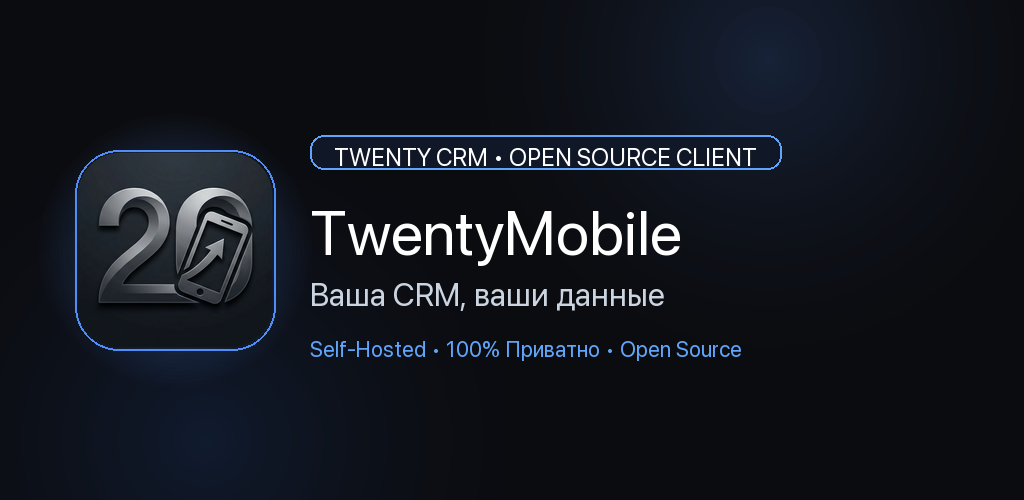
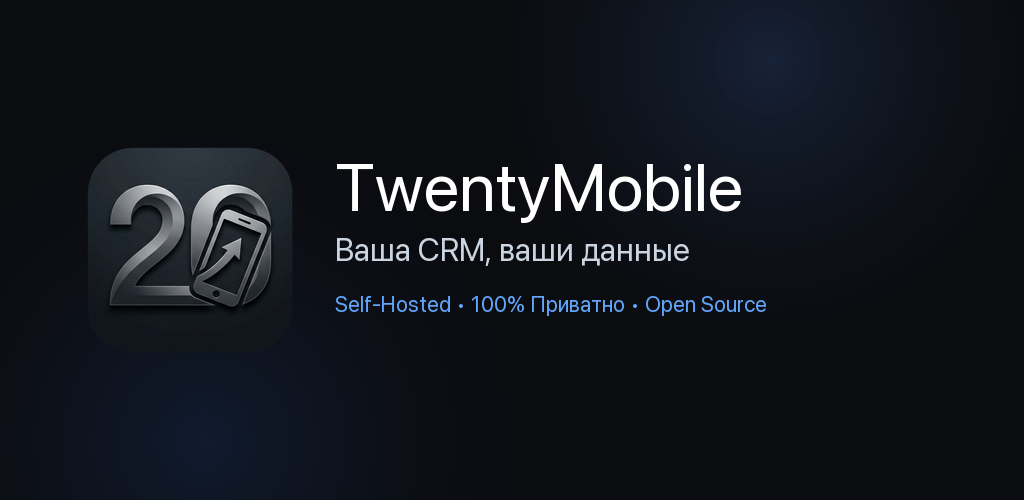
style(store): featureGraphic minimale (rimossi contorno blu e badge, testi allineati in alto)

diff --git a/scripts/store/generate_mockups.py b/scripts/store/generate_mockups.py
@@ -699,11 +699,11 @@ def render_dual_mockup(cfg_profile, slide_idx, text_data, raw_screen_left, raw_s
 
 
 def generate_feature_graphic(loc_dir, copy_item, icon_src):
-    """Feature Graphic Google Play 1024x500 in puro stile Twenty CRM."""
+    """Feature Graphic Google Play 1024x500 pulita e minimale in stile Twenty CRM."""
     w, h = 1024, 500
     fg = create_twenty_gradient(w, h)
     
-    # Pulizia dell'icona: elimina bordi bianchi esterni tramite maschera pulita
+    # Pulizia perfetta dell'icona: elimina bordi bianchi esterni tramite maschera pulita
     icon_master = Image.open(icon_src).convert("RGBA")
     mask = Image.new("L", icon_master.size, 0)
     m_draw = ImageDraw.Draw(mask)
@@ -716,66 +716,29 @@ def generate_feature_graphic(loc_dir, copy_item, icon_src):
     icon_clean = Image.new("RGBA", icon_master.size, (0, 0, 0, 0))
     icon_clean.paste(icon_master, (0, 0), mask)
     
-    icon_sz = 200
+    icon_sz = 210
     icon_img = icon_clean.resize((icon_sz, icon_sz), Image.Resampling.LANCZOS)
-    icon_pos = (75, 150)
+    icon_pos = (85, 145)
     
-    # Bagliore luminoso Twenty CRM centrato dietro all'icona (nessun contorno nero)
-    glow = Image.new("RGBA", (w, h), (0, 0, 0, 0))
-    g_draw = ImageDraw.Draw(glow)
-    cx, cy = icon_pos[0] + icon_sz // 2, icon_pos[1] + icon_sz // 2
-    for r in range(140, 80, -4):
-        alpha = int(45 * ((140 - r) / 60.0))
-        g_draw.ellipse([cx - r, cy - r, cx + r, cy + r], fill=(79, 142, 247, alpha))
-        
     fg_rgba = fg.convert("RGBA")
-    fg_rgba = Image.alpha_composite(fg_rgba, glow)
-    
-    # Incolla l'icona con un bordo satinato elegante
+    # Incolla l'icona pura e pulita: nessun contorno blu, nessuna ombra nera/alone
     fg_rgba.paste(icon_img, icon_pos, icon_img)
     draw = ImageDraw.Draw(fg_rgba)
-    icon_rad = int(icon_sz * 0.22)
-    draw.rounded_rectangle(
-        [icon_pos[0], icon_pos[1], icon_pos[0] + icon_sz, icon_pos[1] + icon_sz],
-        radius=icon_rad,
-        outline=(79, 142, 247, 190),
-        width=2
-    )
     
-    # 1. Badge "TWENTY CRM • OPEN SOURCE CLIENT"
-    # Grande (24px), nitido, ad alto contrasto su pillola navy satinata
-    b_font = get_font(24, bold=True)
-    badge_text = "TWENTY CRM • OPEN SOURCE CLIENT"
-    b_bbox = draw.textbbox((0, 0), badge_text, font=b_font)
-    b_w = b_bbox[2] - b_bbox[0]
-    b_h = b_bbox[3] - b_bbox[1]
+    # Blocco testi centrato più in alto, allineato con la sommità del logo
+    tx = 335
     
-    bx = 310
-    by = 135
-    b_pad_h = 24
-    b_pad_v = 8
-    badge_rect = [bx, by, bx + b_w + b_pad_h * 2, by + b_h + b_pad_v * 2]
+    # 1. Titolo "TwentyMobile" (grande, bianco brillante, posizionato più in alto)
+    t_font = get_font(68, bold=True)
+    draw.text((tx, 145), copy_item["fg_title"], font=t_font, fill=(255, 255, 255))
     
-    draw.rounded_rectangle(
-        badge_rect,
-        radius=14,
-        fill=(16, 24, 40, 245),
-        outline=(96, 165, 250, 255),
-        width=2
-    )
-    draw.text((bx + b_pad_h, by + b_pad_v - 1), badge_text, font=b_font, fill=(255, 255, 255))
-    
-    # 2. Titolo "TwentyMobile"
-    t_font = get_font(62, bold=True)
-    draw.text((310, 195), copy_item["fg_title"], font=t_font, fill=(255, 255, 255))
-    
-    # 3. Sottotitolo
+    # 2. Sottotitolo
     s_font = get_font(32, bold=False)
-    draw.text((310, 275), copy_item["fg_sub"], font=s_font, fill=(203, 213, 225))
+    draw.text((tx, 230), copy_item["fg_sub"], font=s_font, fill=(203, 213, 225))
     
-    # 4. Feature points in basso
+    # 3. Punti chiave (privato, self-hosted, open source)
     f_font = get_font(22, bold=True)
-    draw.text((310, 335), copy_item["fg_badge"], font=f_font, fill=(96, 165, 250))
+    draw.text((tx, 290), copy_item["fg_badge"], font=f_font, fill=(96, 165, 250))
     
     out_png = loc_dir / "featureGraphic.png"
     fg_rgba.convert("RGB").save(out_png, "PNG", optimize=True)
